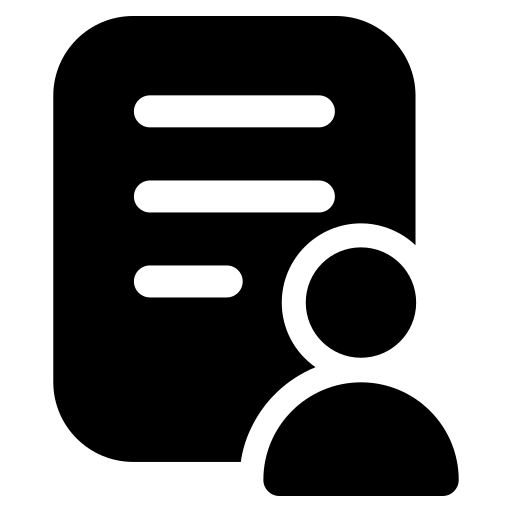
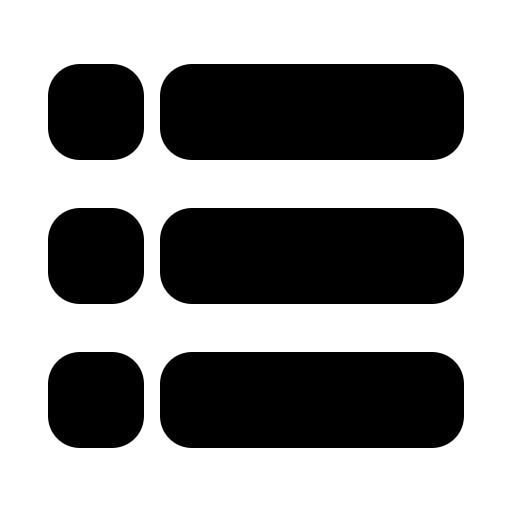
release: v2.5.7 — Redux 幂等守卫 + 通知动画修复 + 任务图标

diff --git a/src/store/general/reducer.ts b/src/store/general/reducer.ts
@@ -27,6 +27,12 @@ const initialState: GeneralState = {
     language: Language.CHINESE // 默认中文
 };
 
+// Idempotency guard for scalar-assignment cases: if the dispatched value
+// equals the current state, return the same reference so React-Redux's
+// shallow compare short-circuits the re-render. Without this, render-time
+// dispatches from canvas render engines (e.g. cursor style) can trigger
+// componentDidUpdate → fullRender → dispatch loops that hit React's
+// "Maximum update depth exceeded" guard.
 export function generalReducer(
     state = initialState,
     action: GeneralActionTypes
@@ -39,54 +45,63 @@ export function generalReducer(
             }
         }
         case Action.UPDATE_ACTIVE_POPUP_TYPE: {
+            if (state.activePopupType === action.payload.activePopupType) return state;
             return {
                 ...state,
                 activePopupType: action.payload.activePopupType
             }
         }
         case Action.UPDATE_CUSTOM_CURSOR_STYLE: {
+            if (state.customCursorStyle === action.payload.customCursorStyle) return state;
             return {
                 ...state,
                 customCursorStyle: action.payload.customCursorStyle
             }
         }
         case Action.UPDATE_CONTEXT: {
+            if (state.activeContext === action.payload.activeContext) return state;
             return {
                 ...state,
                 activeContext: action.payload.activeContext
             }
         }
         case Action.UPDATE_PREVENT_CUSTOM_CURSOR_STATUS: {
+            if (state.preventCustomCursor === action.payload.preventCustomCursor) return state;
             return {
                 ...state,
                 preventCustomCursor: action.payload.preventCustomCursor
             }
         }
         case Action.UPDATE_IMAGE_DRAG_MODE_STATUS: {
+            if (state.imageDragMode === action.payload.imageDragMode) return state;
             return {
                 ...state,
                 imageDragMode: action.payload.imageDragMode
             }
         }
         case Action.UPDATE_SMART_ANNOTATION_ACTIVE_STATUS: {
+            if (state.smartAnnotationActive === action.payload.smartAnnotationActive) return state;
             return {
                 ...state,
                 smartAnnotationActive: action.payload.smartAnnotationActive
             }
         }
         case Action.UPDATE_TRACKING_MODE_STATUS: {
+            if (state.trackingMode === action.payload.trackingMode) return state;
             return {
                 ...state,
                 trackingMode: action.payload.trackingMode
             }
         }
         case Action.UPDATE_TRACKING_IN_PROGRESS_STATUS: {
+            if (state.trackingInProgress === action.payload.trackingInProgress) return state;
             return {
                 ...state,
                 trackingInProgress: action.payload.trackingInProgress
             }
         }
         case Action.UPDATE_ERASER_MODE: {
+            if (state.eraserMode === action.payload.eraserMode) return state;
             return {
                 ...state,
                 eraserMode: action.payload.eraserMode,
@@ -95,12 +110,14 @@ export function generalReducer(
             }
         }
         case Action.UPDATE_ERASER_FINE_MODE: {
+            if (state.eraserFineMode === action.payload.eraserFineMode) return state;
             return {
                 ...state,
                 eraserFineMode: action.payload.eraserFineMode
             }
         }
         case Action.UPDATE_SAM_NEGATIVE_MODE: {
+            if (state.samNegativeMode === action.payload.samNegativeMode) return state;
             return {
                 ...state,
                 samNegativeMode: action.payload.samNegativeMode
@@ -113,18 +130,21 @@ export function generalReducer(
             }
         }
         case Action.UPDATE_ZOOM: {
+            if (state.zoom === action.payload.zoom) return state;
             return {
                 ...state,
                 zoom: action.payload.zoom
             }
         }
         case Action.UPDATE_ENABLE_PER_CLASS_COLORATION_STATUS: {
+            if (state.enablePerClassColoration === action.payload.enablePerClassColoration) return state;
             return {
                 ...state,
                 enablePerClassColoration: action.payload.enablePerClassColoration
             }
         }
         case Action.UPDATE_LANGUAGE: {
+            if (state.language === action.payload.language) return state;
             return {
                 ...state,
                 language: action.payload.language

diff --git a/src/views/NotificationsView/NotificationsView.scss b/src/views/NotificationsView/NotificationsView.scss
@@ -12,6 +12,7 @@ $warningColor: #eed202;
 
 .notification-wrapper {
   position: fixed;
+  width: calc(#{$messageWidth} + 2 * #{$wrapperMargin});
   height: calc(#{$messageHeight} + 2 * #{$wrapperMargin});
   bottom: 0;
   right: 0;
@@ -289,28 +290,28 @@ $warningColor: #eed202;
 
 @keyframes animation-in {
   0%   {
-    width: 0;
+    transform: translateX(100%);
   }
   100%  {
-    width: calc(#{$messageWidth} + 2 * #{$wrapperMargin});
+    transform: translateX(0);
   }
 }
 
 @keyframes animation-display {
   0%   {
-    width: calc(#{$messageWidth} + 2 * #{$wrapperMargin});
+    transform: translateX(0);
   }
   100%  {
-    width: calc(#{$messageWidth} + 2 * #{$wrapperMargin});
+    transform: translateX(0);
   }
 }
 
 @keyframes animation-out {
   0%   {
-    width: calc(#{$messageWidth} + 2 * #{$wrapperMargin});
+    transform: translateX(0);
   }
   100%  {
-    width: 0;
+    transform: translateX(100%);
   }
 }
 

diff --git a/src/views/PopupView/ChangelogPopup/ChangelogPopup.tsx b/src/views/PopupView/ChangelogPopup/ChangelogPopup.tsx
@@ -16,6 +16,15 @@ interface ChangelogEntry {
 
 const CHANGELOG_DATA: ChangelogEntry[] = [
     {
+        version: '2.5.7',
+        date: '2026-05-08',
+        changes: [
+            { zh: '【修复】Redux 幂等守卫：generalReducer 标量赋值 case 增加值相等短路返回，阻断 canvas render → dispatch → re-render 无限循环', en: '[Fix] Redux idempotency guards: scalar-assignment cases in generalReducer now short-circuit when value equals current state, preventing canvas render → dispatch → re-render infinite loops' },
+            { zh: '【修复】通知动画改用 translateX 替代 width 动画，消除布局抖动（layout thrashing）', en: '[Fix] Notification animation switched from width to translateX, eliminating layout thrashing' },
+            { zh: '【UI】任务管理器图标更新', en: '[UI] Task manager icon updated' },
+        ]
+    },
+    {
         version: '2.5.6',
         date: '2026-05-08',
         changes: [

diff --git a/src/views/EditorView/EditorContainer/EditorContainer.tsx b/src/views/EditorView/EditorContainer/EditorContainer.tsx
@@ -570,7 +570,7 @@ const EditorContainer: React.FC<IProps> = (
                 isActive={leftTabStatus && showQueueList}
                 style={{top: '167px'}}
             />
-            <div className='VersionWatermark' onClick={() => updateActivePopupTypeAction(PopupWindowType.CHANGELOG)}>v2.5.6</div>
+            <div className='VersionWatermark' onClick={() => updateActivePopupTypeAction(PopupWindowType.CHANGELOG)}>v2.5.7</div>
             <div
                 className='SaveButtonBottom'
                 onClick={handleSave}